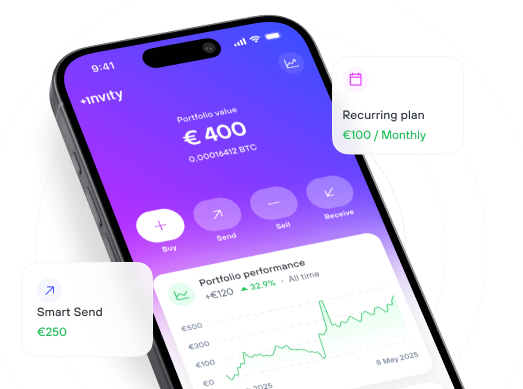
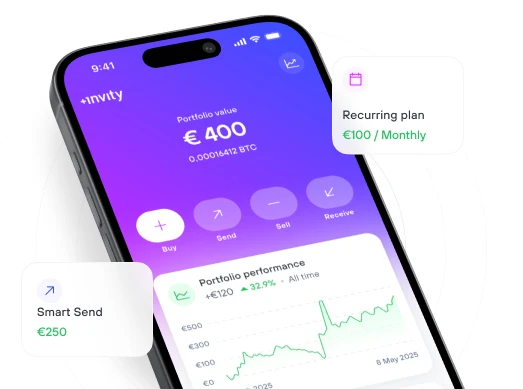
chore(suite): Convert big images to WEBP

diff --git a/packages/components/src/components/Image/images.ts b/packages/components/src/components/Image/images.ts
@@ -114,32 +114,32 @@ export const PNG_IMAGES = {
     TREZOR_T3W1_2x: 'trezor-t3w1@2x.png',
     TREZOR_UNKNOWN_LARGE: 'trezor-unknown.png',
     TREZOR_UNKNOWN_LARGE_2x: 'trezor-unknown@2x.png',
-    TREZOR_T1B1_LARGE: 'trezor-t1b1-large.png',
-    TREZOR_T1B1_LARGE_2x: 'trezor-t1b1-large@2x.png',
-    TREZOR_T2T1_LARGE: 'trezor-t2t1-large.png',
-    TREZOR_T2T1_LARGE_2x: 'trezor-t2t1-large@2x.png',
-    TREZOR_T2B1_LARGE: 'trezor-t3b1-large.png',
-    TREZOR_T2B1_LARGE_2x: 'trezor-t3b1-large@2x.png',
-    TREZOR_T3B1_LARGE: 'trezor-t3b1-large.png',
-    TREZOR_T3B1_LARGE_2x: 'trezor-t3b1-large@2x.png',
-    TREZOR_T3T1_LARGE: 'trezor-t3t1-large.png',
-    TREZOR_T3T1_LARGE_2x: 'trezor-t3t1-large@2x.png',
-    TREZOR_T3W1_LARGE: 'trezor-t3w1-large.png',
-    TREZOR_T3W1_LARGE_2x: 'trezor-t3w1-large@2x.png',
+    TREZOR_T1B1_LARGE: 'trezor-t1b1-large.webp',
+    TREZOR_T1B1_LARGE_2x: 'trezor-t1b1-large@2x.webp',
+    TREZOR_T2T1_LARGE: 'trezor-t2t1-large.webp',
+    TREZOR_T2T1_LARGE_2x: 'trezor-t2t1-large@2x.webp',
+    TREZOR_T2B1_LARGE: 'trezor-t3b1-large.webp',
+    TREZOR_T2B1_LARGE_2x: 'trezor-t3b1-large@2x.webp',
+    TREZOR_T3B1_LARGE: 'trezor-t3b1-large.webp',
+    TREZOR_T3B1_LARGE_2x: 'trezor-t3b1-large@2x.webp',
+    TREZOR_T3T1_LARGE: 'trezor-t3t1-large.webp',
+    TREZOR_T3T1_LARGE_2x: 'trezor-t3t1-large@2x.webp',
+    TREZOR_T3W1_LARGE: 'trezor-t3w1-large.webp',
+    TREZOR_T3W1_LARGE_2x: 'trezor-t3w1-large@2x.webp',
     TREZOR_UNKNOWN_GHOST: 'trezor-unknown.png',
     TREZOR_UNKNOWN_GHOST_2x: 'trezor-unknown@2x.png',
-    TREZOR_T1B1_GHOST: 'trezor-t1b1-ghost.png',
-    TREZOR_T1B1_GHOST_2x: 'trezor-t1b1-ghost@2x.png',
-    TREZOR_T2T1_GHOST: 'trezor-t2t1-ghost.png',
-    TREZOR_T2T1_GHOST_2x: 'trezor-t2t1-ghost@2x.png',
-    TREZOR_T2B1_GHOST: 'trezor-t3b1-ghost.png',
-    TREZOR_T2B1_GHOST_2x: 'trezor-t3b1-ghost@2x.png',
-    TREZOR_T3B1_GHOST: 'trezor-t3b1-ghost.png',
-    TREZOR_T3B1_GHOST_2x: 'trezor-t3b1-ghost@2x.png',
-    TREZOR_T3T1_GHOST: 'trezor-t3t1-ghost.png',
-    TREZOR_T3T1_GHOST_2x: 'trezor-t3t1-ghost@2x.png',
-    TREZOR_T3W1_GHOST: 'trezor-t3w1-ghost.png',
-    TREZOR_T3W1_GHOST_2x: 'trezor-t3w1-ghost@2x.png',
+    TREZOR_T1B1_GHOST: 'trezor-t1b1-ghost.webp',
+    TREZOR_T1B1_GHOST_2x: 'trezor-t1b1-ghost@2x.webp',
+    TREZOR_T2T1_GHOST: 'trezor-t2t1-ghost.webp',
+    TREZOR_T2T1_GHOST_2x: 'trezor-t2t1-ghost@2x.webp',
+    TREZOR_T2B1_GHOST: 'trezor-t3b1-ghost.webp',
+    TREZOR_T2B1_GHOST_2x: 'trezor-t3b1-ghost@2x.webp',
+    TREZOR_T3B1_GHOST: 'trezor-t3b1-ghost.webp',
+    TREZOR_T3B1_GHOST_2x: 'trezor-t3b1-ghost@2x.webp',
+    TREZOR_T3T1_GHOST: 'trezor-t3t1-ghost.webp',
+    TREZOR_T3T1_GHOST_2x: 'trezor-t3t1-ghost@2x.webp',
+    TREZOR_T3W1_GHOST: 'trezor-t3w1-ghost.webp',
+    TREZOR_T3W1_GHOST_2x: 'trezor-t3w1-ghost@2x.webp',
     TREZOR_SAFE_PROMO_PRODUCTS: 'trezor-safe-promo-products.png',
     TREZOR_SAFE_PROMO_PRODUCTS_2x: 'trezor-safe-promo-products@2x.png',
 } as const;
